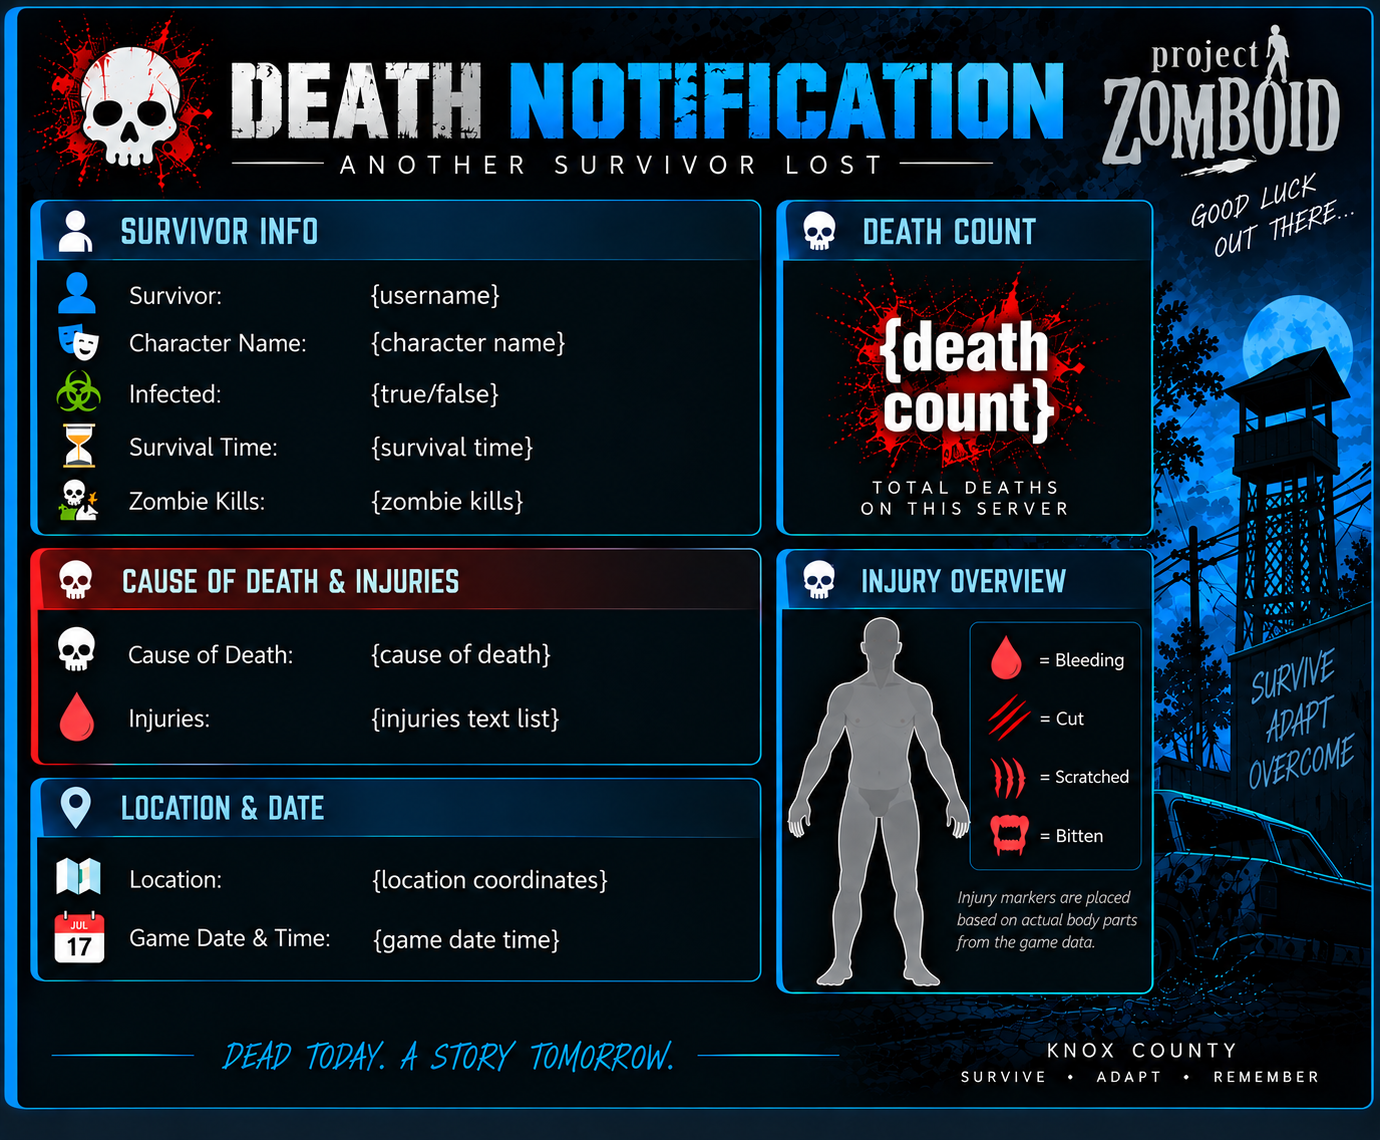
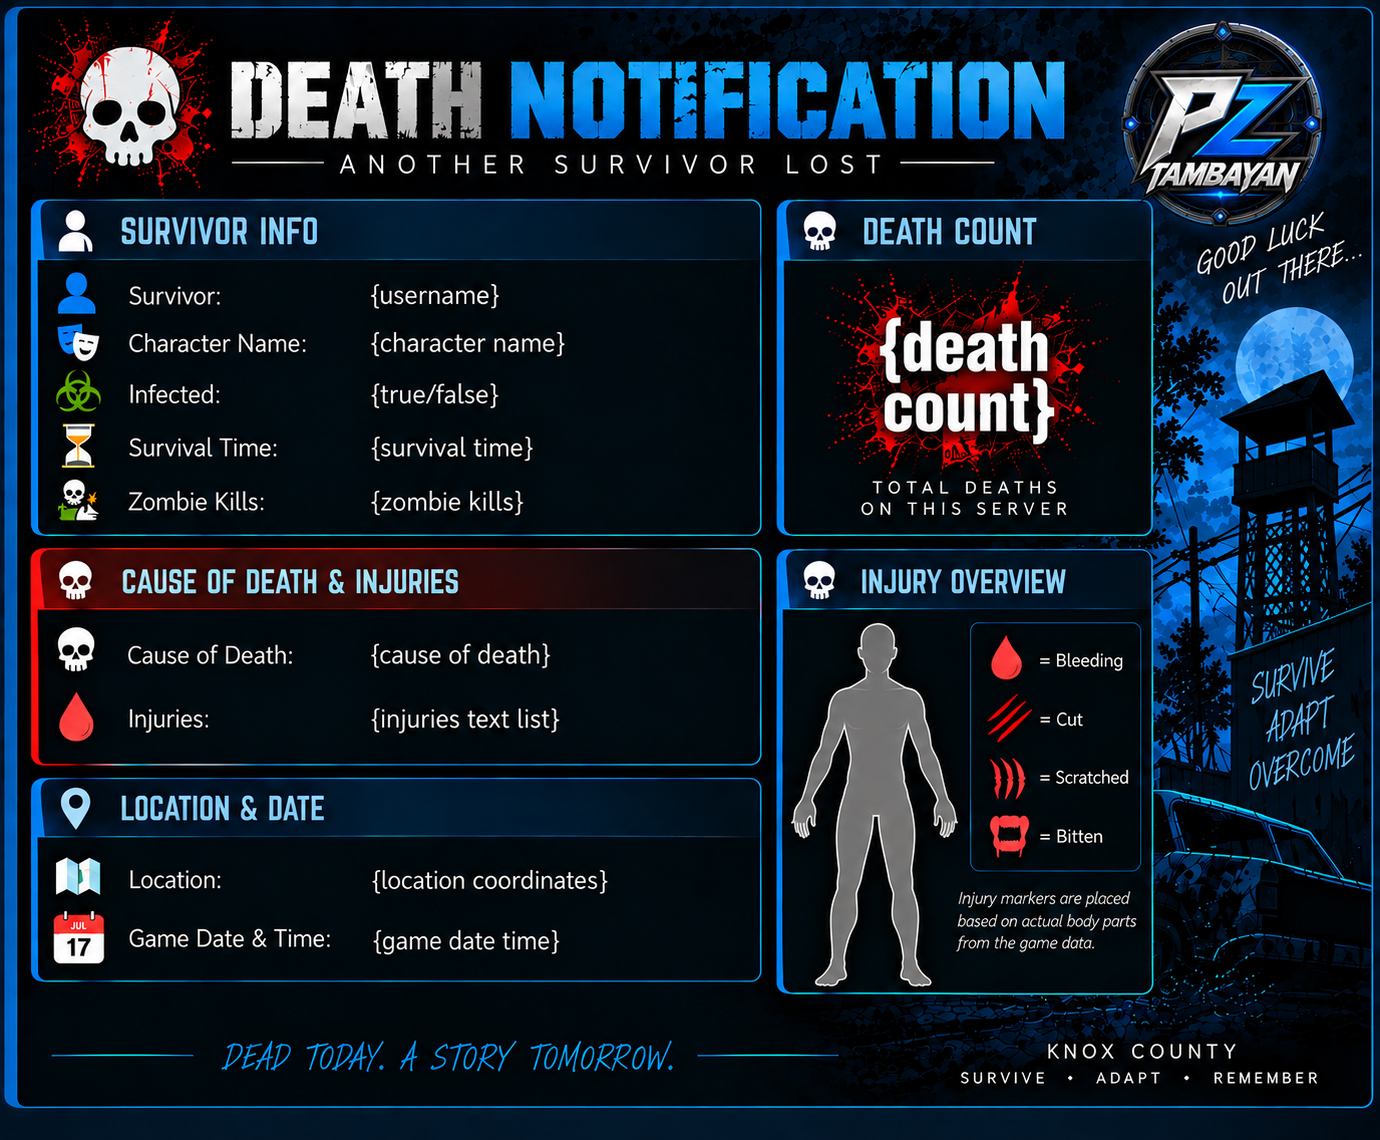
fix(death-card): correct injury left/right mapping + bigger transparent death count
- Remapped the paper-doll body-part markers for the updated template. The doll
  faces the reader, so the character's LEFT side is on the viewer's RIGHT
  (higher x) and vice-versa; the old mapping had them backwards.
- Death count: removed the solid black box (transparent background) and bumped
  the font (52 -> 88 adaptive). The {death count} placeholder is now inpainted
  away with a horizontal scanline fill so only the number shows over the
  splatter.

diff --git a/bot/death_card.py b/bot/death_card.py
@@ -19,7 +19,6 @@ _FONT_PATH = _ASSETS / "fonts" / "LiberationSans-Bold.ttf"
 # Card colours (sampled from the template).
 _BG = (1, 12, 17)            # dark card background behind the value slots
 _TEXT = (230, 230, 231)      # bright value text (matches the title)
-_COUNT_BG = (6, 6, 6)        # death-count box background
 _COUNT_TEXT = (250, 250, 250)
 
 # Value slots: field -> (x_left, y_top, max_width_px, font_size_px)
@@ -39,22 +38,24 @@ _SLOTS = {
 _COUNT_BOX = (850, 290, 1080, 468)
 
 # Paper-doll body-part marker positions (image pixel coordinates).
+# The doll faces the reader, so the character's LEFT side is on the viewer's
+# RIGHT (higher x) and the character's RIGHT side on the viewer's LEFT.
 _BODY_PARTS: Dict[str, Tuple[int, int]] = {
-    "head":        (880, 660),
-    "neck":        (880, 680),
-    "torso_upper": (888, 718),
-    "torso_lower": (888, 752),
-    "groin":       (888, 778),
-    "upperarm_l":  (846, 712),
-    "forearm_l":   (845, 745),
-    "hand_l":      (844, 782),
-    "upperarm_r":  (934, 712),
-    "forearm_r":   (935, 745),
-    "hand_r":      (936, 782),
-    "leg_l":       (862, 812),
-    "foot_l":      (862, 948),
-    "leg_r":       (910, 812),
-    "foot_r":      (910, 948),
+    "head":        (876, 658),
+    "neck":        (876, 688),
+    "torso_upper": (876, 725),
+    "torso_lower": (876, 800),
+    "groin":       (876, 852),
+    "upperarm_l":  (917, 725),   # character's left arm → viewer's right
+    "forearm_l":   (930, 775),
+    "hand_l":      (946, 815),
+    "upperarm_r":  (830, 725),   # character's right arm → viewer's left
+    "forearm_r":   (818, 775),
+    "hand_r":      (807, 815),
+    "leg_l":       (905, 915),
+    "foot_l":      (906, 958),
+    "leg_r":       (843, 915),
+    "foot_r":      (838, 958),
 }
 
 # Injury icons live in the template's legend (bottom-right "Injury Overview").
@@ -109,6 +110,68 @@ def _load_icons() -> Dict[str, Image.Image]:
 
 def _font(size: int) -> ImageFont.FreeTypeFont:
     return ImageFont.truetype(str(_FONT_PATH), size)
+
+
+def _clear_white_text(img: Image.Image, box: tuple) -> None:
+    """Inpaint white placeholder text in `box` with the local card background.
+
+    The `{death count}` placeholder is thick distressed-white text over the red
+    splatter. A median filter is too weak for it, so we do a horizontal scanline
+    fill: each run of white pixels is replaced with an interpolation of the
+    nearest non-white pixel to its left and right, which reconstructs the
+    splatter reasonably.
+    """
+    l, t, r, b = box
+    region = img.crop(box).convert("RGB")
+    px = region.load()
+    w, h = region.size
+
+    def _is_white(c) -> bool:
+        return c[0] > 150 and c[1] > 150 and c[2] > 150
+
+    for y in range(h):
+        x = 0
+        while x < w:
+            if _is_white(px[x, y]):
+                run_end = x
+                while run_end < w and _is_white(px[run_end, y]):
+                    run_end += 1
+                left = None
+                for xx in range(x - 1, -1, -1):
+                    if not _is_white(px[xx, y]):
+                        left = px[xx, y]
+                        break
+                right = None
+                for xx in range(run_end, w):
+                    if not _is_white(px[xx, y]):
+                        right = px[xx, y]
+                        break
+                for xx in range(x, run_end):
+                    if left is not None and right is not None:
+                        frac = (xx - x + 1) / (run_end - x + 1)
+                        px[xx, y] = tuple(
+                            round(left[i] * (1 - frac) + right[i] * frac) for i in range(3))
+                    elif left is not None:
+                        px[xx, y] = left
+                    elif right is not None:
+                        px[xx, y] = right
+                x = run_end
+            else:
+                x += 1
+
+    img.paste(region, (l, t))
+
+
+def _fit_number(draw: ImageDraw.ImageDraw, text: str, max_width: int,
+                start_size: int) -> ImageFont.FreeTypeFont:
+    """Pick the largest font (down to 24) that keeps `text` within `max_width`."""
+    size = start_size
+    while size > 24:
+        font = _font(size)
+        if draw.textlength(text, font=font) <= max_width:
+            return font
+        size -= 4
+    return _font(24)
 
 
 def _truncate(draw: ImageDraw.ImageDraw, text: str, font, max_width: int) -> str:
@@ -171,10 +234,7 @@ def _parse_injuries(injuries: str) -> List[Tuple[str, List[str]]]:
 
 def _draw_centered(draw: ImageDraw.ImageDraw, center: Tuple[int, int],
                    text: str, font, fill) -> None:
-    box = draw.textbbox((0, 0), text, font=font)
-    w = box[2] - box[0]
-    h = box[3] - box[1]
-    draw.text((center[0] - w // 2, center[1] - h // 2), text, font=font, fill=fill)
+    draw.text(center, text, font=font, fill=fill, anchor="mm")
 
 
 def render_death_card(data: Dict) -> Image.Image:
@@ -199,13 +259,12 @@ def render_death_card(data: Dict) -> Image.Image:
         value = _truncate(draw, value, font, max_w)
         draw.text((x, y - 3), value, font=font, fill=_TEXT)
 
-    # 2. Death count (big number).
+    # 2. Death count (big number, transparent background — no box).
     count = str(data.get("death_count", "") or "0").strip()
     l, t, r, b = _COUNT_BOX
-    draw.rectangle([l, t, r, b], fill=_COUNT_BG)
+    _clear_white_text(img, (l, t, r, b))
     if count:
-        cfont = _font(52)
-        count = _truncate(draw, count, cfont, r - l - 16)
+        cfont = _fit_number(draw, count, r - l - 24, 88)
         _draw_centered(draw, ((l + r) // 2, (t + b) // 2), count, cfont, _COUNT_TEXT)
 
     # 3. Injury markers on the paper doll (legend icons).
